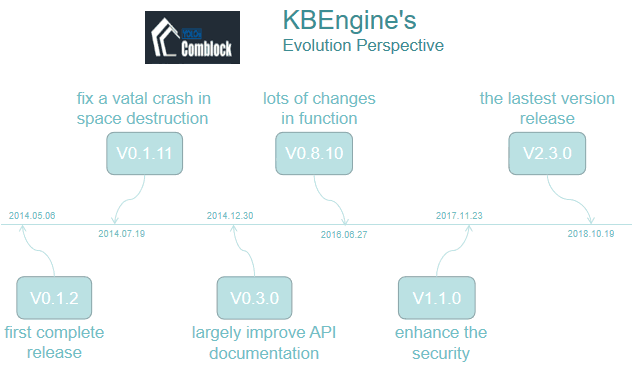
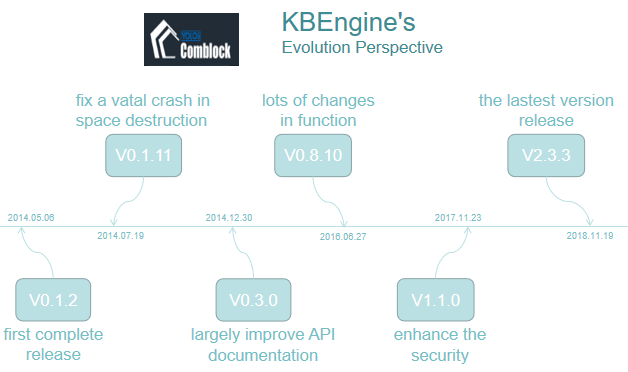
some changes

diff --git a/第五组-进度日志/report.md b/第五组-进度日志/report.md
@@ -233,7 +233,7 @@ For debugging, KBEngine provides tools to debug online using Python commands. **
 
 
 
-### Codeline Model
+### CodeLine Model
 
 The overall structure of codeline is defined as how the code is controlled or designed, where different types of source code exist in that structure, and how it should be maintained and extended over time.
 
@@ -250,14 +250,20 @@ The kbe is the main directory about the engine, which is divided into four direc
 | Directory | Descriptions                                                 |
 | --------- | ------------------------------------------------------------ |
 | -bin      | This directory contains all executable files after compilation. |
-| -res      | Store all resources, including resources related to the game scene and the configuration files. |
+| -res      | Engine Source directory, including python script library, server engine configuration and so on. |
 | -src      | KBEngine’s source code.                                      |
-| -tools    | The engine tools, such as the guiconsole, pycluster, install, xlsx2py which we have mentioned above and so on. |
-| -server   | It is included in the src directory, which contains loginapp, cellapp, baseapp and so on. |
-| -scripts  | It is included in the res directory. This is about the resources of the game logic and python files. |
+| -tools    | The engine tools, such as the engine server, visual console tool and so on. |
 
+The assets is also divided into two directories.
 
+| Directory | Descriptions                                                 |
+| --------- | ------------------------------------------------------------ |
+| -res      | Store all resources, including resources related to the game scene and the configuration files. |
+| -scripts  | This is about the resources of the game logic.               |
 
+The main codeline model is concluded as the following picture:
+
+![CodeLine Model](pics/CodeLine Model.png)
 
 ## Functional View
 
@@ -352,23 +358,25 @@ Everything is continuously changing, So is the software development. Software an
 
 The value of these releases is to help us understand the process of the development and perfection of KBEngine. We'll talk about some typical not all releases of the project in detail. And in these typical releases, we figure out the most important changes and highlight them in the following lines.
 
+**The releases we talk about are from the original project, not from the project we forked, because after we forked, the contributor has released several new versions.** 
+
 
 
 ![Evolution](pics/Evolution.png)
 
 
 
-The first release of the KBEngine project we can find on Github was V0.1.2 on 6 May 2014. **This is the first complete release of the project**. It filled all the previous vacant parts and fixed several issues.
+The first release of the KBEngine project we can find on Github was V0.1.2 on 6 May 2014. **This is the first complete release of the project**. It filled all the previous vacant parts on Github and after this, there are no changes in main structure.
 
-Two months later, on 19 July 2014, another release V0.1.11 was posted. **It fixed a crash in space destruction** and optimize the messagelog service (occupying small memory). Also, multiple message processing and the speed of interaction with the database were optimized.
+Two months later, on 19 July 2014, another release V0.1.11 was posted. **It fixed a crash in space destruction** and optimize the **messagelog** service (occupying small memory). Also, multiple message processing and the speed of interaction with the database were optimized.
 
-At the end of 2014, on 30 Dec 2014, V0.3.0 was released. **This version improved API documentation**. It added functions such as log search and filtering in GUIConsole. Billingsystem changed its name to interfaces, kbmachine changed its name to machine, messagelog changed its name to logger. Also, a default project asset directory ‘assets’ was added.
+At the end of 2014, on 30 Dec 2014, V0.3.0 was released. **This version improved API documentation**. It added functions such as log search and filtering in **GUIConsole**. **Billingsystem** changed its name to **interfaces**, **kbmachine** changed its name to **machine**, **messagelog** changed its name to **logger**.
 
-In 2016, June 27, V0.8.10 appeared. **The main changes of function were as following: The developer significantly improved cellapp performance**. The implementation of the controllerBy mechanism allowed different permissions to control other or own entities. KBEngine.charge series functions no longer used KBEngine.MemoryStream and began to use the fields in the Bytes structure to support DatabaseLength. It also supported packetAlwaysContainLength.
+In 2016, June 27, V0.8.10 appeared. **The main changes of function were as following: The developer significantly improved** **cellapp** **performance**. The implementation of the **controllerBy** mechanism allowed different permissions to control other or own entities. **KBEngine.charge** series functions no longer used **KBEngine.MemoryStream** and began to use the fields in the **Bytes** structure to support **DatabaseLength**. 
 
-And another release V1.1.0 was posted. In the project, **the security of external inbound method access was enhanced**. The API documentation was adjusted. Furthermore, the Implements field in the entity def file was changed to Interfaces, compatible with multiple versions.
+And another release V1.1.0 was posted. In this version, **the security of external inbound method access was enhanced**. The API documentation in directory: kbengine/docs/api was adjusted, **entitiesInRange** can be called after the destruction of other entities. Furthermore, the **Implements** field in the entity **def** file was changed to **Interfaces** to compatible with multiple versions.
 
-**The latest update is V2.3.0** on October 19, 2018, main changes were these: The developer prevented a reading error resulting from a password being NULL caused by a database merge or migration causes. What’s more, python log hook output optimization was also completed.
+**The latest update is V2.3.3** on November 19, 2018. The contributor added **onAttached/onDetached** methods in the client part and configured parameters in Js plugin to support the choice of the protocol of **WSS** and **WS**. 
 
 ## Technical Debt
 
